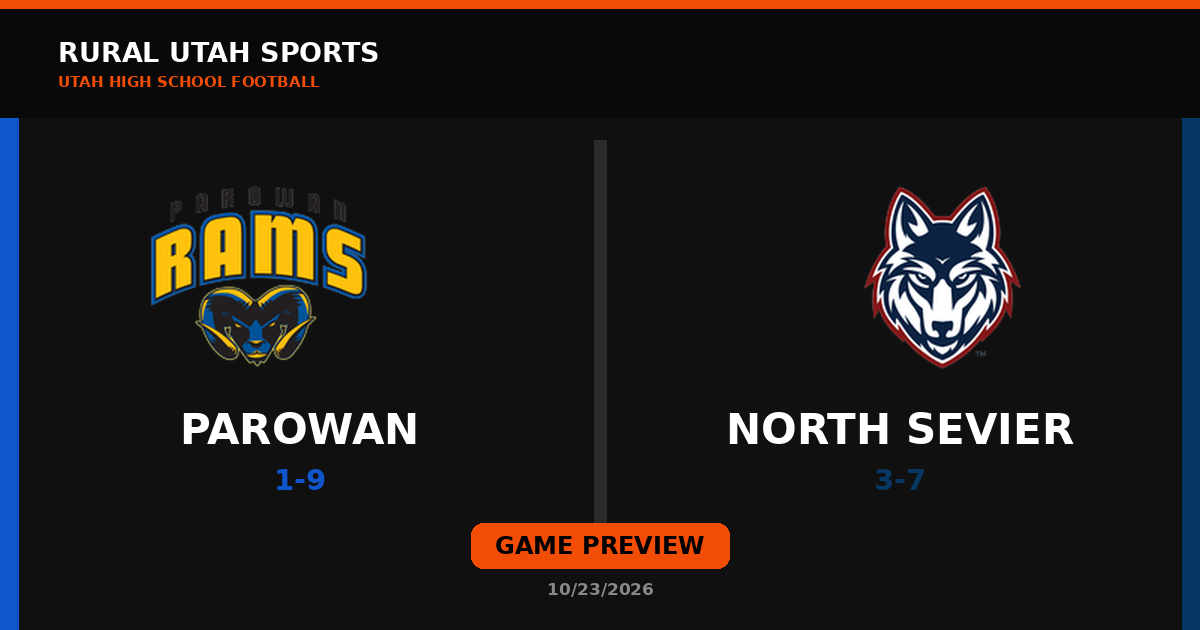
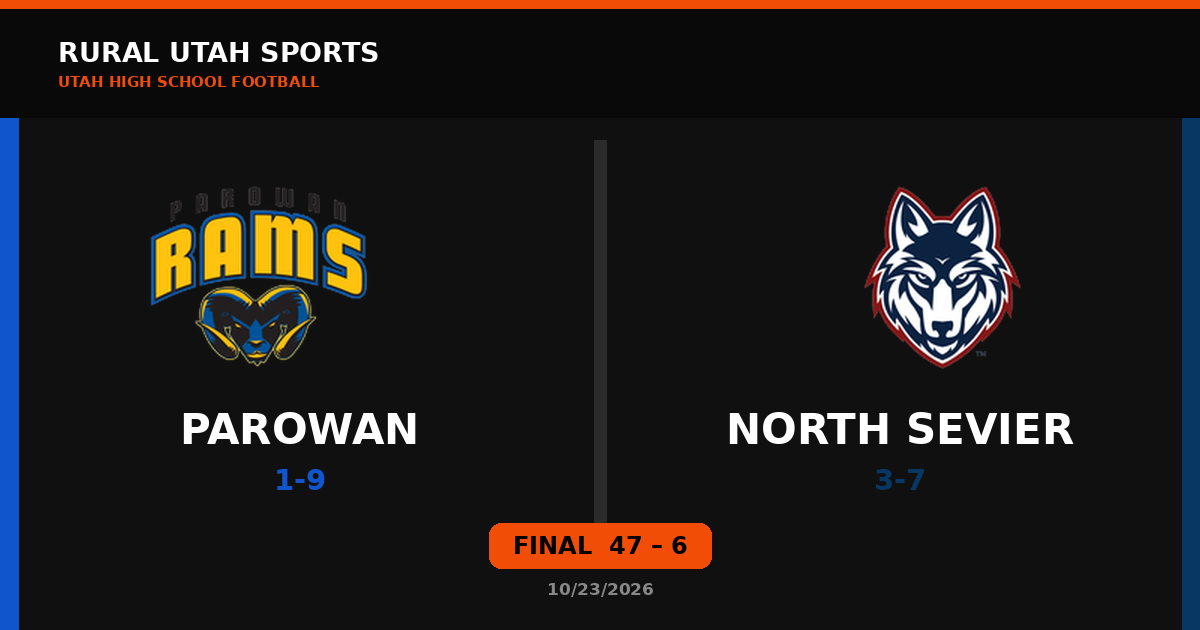
Auto-build social share previews

Changed region(s): [[0.37, 0.8143, 0.6167, 0.9048]]

diff --git a/share/game/10-23-2026-panguitch-at-uma-hillfield/index.html b/share/game/10-23-2026-panguitch-at-uma-hillfield/index.html
@@ -1,5 +1,5 @@
 <!doctype html><html lang="en"><head><meta charset="utf-8"><meta name="viewport" content="width=device-width,initial-scale=1">
-<title>PANGUITCH at UMA-HILLFIELD | Rural Utah Sports</title><meta name="description" content="2026 matchup preview • 10/23/2026. Scores, team records, rankings, ELO and game information."><meta name="robots" content="noindex,follow"><link rel="canonical" href="https://ruralutahsports.github.io/rural-utah-sports/game.html?date=10%2F23%2F2026&amp;away=PANGUITCH&amp;home=UMA-HILLFIELD">
-<meta property="og:type" content="website"><meta property="og:site_name" content="Rural Utah Sports"><meta property="og:title" content="PANGUITCH at UMA-HILLFIELD | Rural Utah Sports"><meta property="og:description" content="2026 matchup preview • 10/23/2026. Scores, team records, rankings, ELO and game information."><meta property="og:url" content="https://ruralutahsports.github.io/rural-utah-sports/share/game/10-23-2026-panguitch-at-uma-hillfield/"><meta property="og:image" content="https://ruralutahsports.github.io/rural-utah-sports/share-images/games/10-23-2026-panguitch-at-uma-hillfield.png"><meta property="og:image:width" content="1200"><meta property="og:image:height" content="630">
-<meta name="twitter:card" content="summary_large_image"><meta name="twitter:title" content="PANGUITCH at UMA-HILLFIELD | Rural Utah Sports"><meta name="twitter:description" content="2026 matchup preview • 10/23/2026. Scores, team records, rankings, ELO and game information."><meta name="twitter:image" content="https://ruralutahsports.github.io/rural-utah-sports/share-images/games/10-23-2026-panguitch-at-uma-hillfield.png"><meta http-equiv="refresh" content="0;url=https://ruralutahsports.github.io/rural-utah-sports/game.html?date=10%2F23%2F2026&amp;away=PANGUITCH&amp;home=UMA-HILLFIELD">
+<title>PANGUITCH at UMA-HILLFIELD | Rural Utah Sports</title><meta name="description" content="Final: 43-24 • 10/23/2026. Scores, team records, rankings, ELO and game information."><meta name="robots" content="noindex,follow"><link rel="canonical" href="https://ruralutahsports.github.io/rural-utah-sports/game.html?date=10%2F23%2F2026&amp;away=PANGUITCH&amp;home=UMA-HILLFIELD">
+<meta property="og:type" content="website"><meta property="og:site_name" content="Rural Utah Sports"><meta property="og:title" content="PANGUITCH at UMA-HILLFIELD | Rural Utah Sports"><meta property="og:description" content="Final: 43-24 • 10/23/2026. Scores, team records, rankings, ELO and game information."><meta property="og:url" content="https://ruralutahsports.github.io/rural-utah-sports/share/game/10-23-2026-panguitch-at-uma-hillfield/"><meta property="og:image" content="https://ruralutahsports.github.io/rural-utah-sports/share-images/games/10-23-2026-panguitch-at-uma-hillfield.png"><meta property="og:image:width" content="1200"><meta property="og:image:height" content="630">
+<meta name="twitter:card" content="summary_large_image"><meta name="twitter:title" content="PANGUITCH at UMA-HILLFIELD | Rural Utah Sports"><meta name="twitter:description" content="Final: 43-24 • 10/23/2026. Scores, team records, rankings, ELO and game information."><meta name="twitter:image" content="https://ruralutahsports.github.io/rural-utah-sports/share-images/games/10-23-2026-panguitch-at-uma-hillfield.png"><meta http-equiv="refresh" content="0;url=https://ruralutahsports.github.io/rural-utah-sports/game.html?date=10%2F23%2F2026&amp;away=PANGUITCH&amp;home=UMA-HILLFIELD">
 <style>body{margin:0;background:#111;color:#fff;font:16px Arial,sans-serif;display:grid;place-items:center;min-height:100vh}a{color:#F14D07;font-weight:800}</style></head><body><p>Opening <a href="https://ruralutahsports.github.io/rural-utah-sports/game.html?date=10%2F23%2F2026&amp;away=PANGUITCH&amp;home=UMA-HILLFIELD">PANGUITCH at UMA-HILLFIELD | Rural Utah Sports</a>…</p><script>location.replace("https://ruralutahsports.github.io/rural-utah-sports/game.html?date=10%2F23%2F2026&away=PANGUITCH&home=UMA-HILLFIELD");</script></body></html>

diff --git a/share/game/10-23-2026-ben-lomond-at-grantsville/index.html b/share/game/10-23-2026-ben-lomond-at-grantsville/index.html
@@ -1,5 +1,5 @@
 <!doctype html><html lang="en"><head><meta charset="utf-8"><meta name="viewport" content="width=device-width,initial-scale=1">
-<title>BEN LOMOND at GRANTSVILLE | Rural Utah Sports</title><meta name="description" content="2026 matchup preview • 10/23/2026. Scores, team records, rankings, ELO and game information."><meta name="robots" content="noindex,follow"><link rel="canonical" href="https://ruralutahsports.github.io/rural-utah-sports/game.html?date=10%2F23%2F2026&amp;away=BEN+LOMOND&amp;home=GRANTSVILLE">
-<meta property="og:type" content="website"><meta property="og:site_name" content="Rural Utah Sports"><meta property="og:title" content="BEN LOMOND at GRANTSVILLE | Rural Utah Sports"><meta property="og:description" content="2026 matchup preview • 10/23/2026. Scores, team records, rankings, ELO and game information."><meta property="og:url" content="https://ruralutahsports.github.io/rural-utah-sports/share/game/10-23-2026-ben-lomond-at-grantsville/"><meta property="og:image" content="https://ruralutahsports.github.io/rural-utah-sports/share-images/games/10-23-2026-ben-lomond-at-grantsville.png"><meta property="og:image:width" content="1200"><meta property="og:image:height" content="630">
-<meta name="twitter:card" content="summary_large_image"><meta name="twitter:title" content="BEN LOMOND at GRANTSVILLE | Rural Utah Sports"><meta name="twitter:description" content="2026 matchup preview • 10/23/2026. Scores, team records, rankings, ELO and game information."><meta name="twitter:image" content="https://ruralutahsports.github.io/rural-utah-sports/share-images/games/10-23-2026-ben-lomond-at-grantsville.png"><meta http-equiv="refresh" content="0;url=https://ruralutahsports.github.io/rural-utah-sports/game.html?date=10%2F23%2F2026&amp;away=BEN+LOMOND&amp;home=GRANTSVILLE">
+<title>BEN LOMOND at GRANTSVILLE | Rural Utah Sports</title><meta name="description" content="Final: 6-55 • 10/23/2026. Scores, team records, rankings, ELO and game information."><meta name="robots" content="noindex,follow"><link rel="canonical" href="https://ruralutahsports.github.io/rural-utah-sports/game.html?date=10%2F23%2F2026&amp;away=BEN+LOMOND&amp;home=GRANTSVILLE">
+<meta property="og:type" content="website"><meta property="og:site_name" content="Rural Utah Sports"><meta property="og:title" content="BEN LOMOND at GRANTSVILLE | Rural Utah Sports"><meta property="og:description" content="Final: 6-55 • 10/23/2026. Scores, team records, rankings, ELO and game information."><meta property="og:url" content="https://ruralutahsports.github.io/rural-utah-sports/share/game/10-23-2026-ben-lomond-at-grantsville/"><meta property="og:image" content="https://ruralutahsports.github.io/rural-utah-sports/share-images/games/10-23-2026-ben-lomond-at-grantsville.png"><meta property="og:image:width" content="1200"><meta property="og:image:height" content="630">
+<meta name="twitter:card" content="summary_large_image"><meta name="twitter:title" content="BEN LOMOND at GRANTSVILLE | Rural Utah Sports"><meta name="twitter:description" content="Final: 6-55 • 10/23/2026. Scores, team records, rankings, ELO and game information."><meta name="twitter:image" content="https://ruralutahsports.github.io/rural-utah-sports/share-images/games/10-23-2026-ben-lomond-at-grantsville.png"><meta http-equiv="refresh" content="0;url=https://ruralutahsports.github.io/rural-utah-sports/game.html?date=10%2F23%2F2026&amp;away=BEN+LOMOND&amp;home=GRANTSVILLE">
 <style>body{margin:0;background:#111;color:#fff;font:16px Arial,sans-serif;display:grid;place-items:center;min-height:100vh}a{color:#F14D07;font-weight:800}</style></head><body><p>Opening <a href="https://ruralutahsports.github.io/rural-utah-sports/game.html?date=10%2F23%2F2026&amp;away=BEN+LOMOND&amp;home=GRANTSVILLE">BEN LOMOND at GRANTSVILLE | Rural Utah Sports</a>…</p><script>location.replace("https://ruralutahsports.github.io/rural-utah-sports/game.html?date=10%2F23%2F2026&away=BEN+LOMOND&home=GRANTSVILLE");</script></body></html>

diff --git a/share/game/10-23-2026-monument-val-at-uma-lehi/index.html b/share/game/10-23-2026-monument-val-at-uma-lehi/index.html
@@ -1,5 +1,5 @@
 <!doctype html><html lang="en"><head><meta charset="utf-8"><meta name="viewport" content="width=device-width,initial-scale=1">
-<title>MONUMENT VAL at UMA-LEHI | Rural Utah Sports</title><meta name="description" content="2026 matchup preview • 10/23/2026. Scores, team records, rankings, ELO and game information."><meta name="robots" content="noindex,follow"><link rel="canonical" href="https://ruralutahsports.github.io/rural-utah-sports/game.html?date=10%2F23%2F2026&amp;away=MONUMENT+VAL&amp;home=UMA-LEHI">
-<meta property="og:type" content="website"><meta property="og:site_name" content="Rural Utah Sports"><meta property="og:title" content="MONUMENT VAL at UMA-LEHI | Rural Utah Sports"><meta property="og:description" content="2026 matchup preview • 10/23/2026. Scores, team records, rankings, ELO and game information."><meta property="og:url" content="https://ruralutahsports.github.io/rural-utah-sports/share/game/10-23-2026-monument-val-at-uma-lehi/"><meta property="og:image" content="https://ruralutahsports.github.io/rural-utah-sports/share-images/games/10-23-2026-monument-val-at-uma-lehi.png"><meta property="og:image:width" content="1200"><meta property="og:image:height" content="630">
-<meta name="twitter:card" content="summary_large_image"><meta name="twitter:title" content="MONUMENT VAL at UMA-LEHI | Rural Utah Sports"><meta name="twitter:description" content="2026 matchup preview • 10/23/2026. Scores, team records, rankings, ELO and game information."><meta name="twitter:image" content="https://ruralutahsports.github.io/rural-utah-sports/share-images/games/10-23-2026-monument-val-at-uma-lehi.png"><meta http-equiv="refresh" content="0;url=https://ruralutahsports.github.io/rural-utah-sports/game.html?date=10%2F23%2F2026&amp;away=MONUMENT+VAL&amp;home=UMA-LEHI">
+<title>MONUMENT VAL at UMA-LEHI | Rural Utah Sports</title><meta name="description" content="Final: 16-45 • 10/23/2026. Scores, team records, rankings, ELO and game information."><meta name="robots" content="noindex,follow"><link rel="canonical" href="https://ruralutahsports.github.io/rural-utah-sports/game.html?date=10%2F23%2F2026&amp;away=MONUMENT+VAL&amp;home=UMA-LEHI">
+<meta property="og:type" content="website"><meta property="og:site_name" content="Rural Utah Sports"><meta property="og:title" content="MONUMENT VAL at UMA-LEHI | Rural Utah Sports"><meta property="og:description" content="Final: 16-45 • 10/23/2026. Scores, team records, rankings, ELO and game information."><meta property="og:url" content="https://ruralutahsports.github.io/rural-utah-sports/share/game/10-23-2026-monument-val-at-uma-lehi/"><meta property="og:image" content="https://ruralutahsports.github.io/rural-utah-sports/share-images/games/10-23-2026-monument-val-at-uma-lehi.png"><meta property="og:image:width" content="1200"><meta property="og:image:height" content="630">
+<meta name="twitter:card" content="summary_large_image"><meta name="twitter:title" content="MONUMENT VAL at UMA-LEHI | Rural Utah Sports"><meta name="twitter:description" content="Final: 16-45 • 10/23/2026. Scores, team records, rankings, ELO and game information."><meta name="twitter:image" content="https://ruralutahsports.github.io/rural-utah-sports/share-images/games/10-23-2026-monument-val-at-uma-lehi.png"><meta http-equiv="refresh" content="0;url=https://ruralutahsports.github.io/rural-utah-sports/game.html?date=10%2F23%2F2026&amp;away=MONUMENT+VAL&amp;home=UMA-LEHI">
 <style>body{margin:0;background:#111;color:#fff;font:16px Arial,sans-serif;display:grid;place-items:center;min-height:100vh}a{color:#F14D07;font-weight:800}</style></head><body><p>Opening <a href="https://ruralutahsports.github.io/rural-utah-sports/game.html?date=10%2F23%2F2026&amp;away=MONUMENT+VAL&amp;home=UMA-LEHI">MONUMENT VAL at UMA-LEHI | Rural Utah Sports</a>…</p><script>location.replace("https://ruralutahsports.github.io/rural-utah-sports/game.html?date=10%2F23%2F2026&away=MONUMENT+VAL&home=UMA-LEHI");</script></body></html>

diff --git a/share/game/10-23-2026-parowan-at-north-sevier/index.html b/share/game/10-23-2026-parowan-at-north-sevier/index.html
@@ -1,5 +1,5 @@
 <!doctype html><html lang="en"><head><meta charset="utf-8"><meta name="viewport" content="width=device-width,initial-scale=1">
-<title>PAROWAN at NORTH SEVIER | Rural Utah Sports</title><meta name="description" content="2026 matchup preview • 10/23/2026. Scores, team records, rankings, ELO and game information."><meta name="robots" content="noindex,follow"><link rel="canonical" href="https://ruralutahsports.github.io/rural-utah-sports/game.html?date=10%2F23%2F2026&amp;away=PAROWAN&amp;home=NORTH+SEVIER">
-<meta property="og:type" content="website"><meta property="og:site_name" content="Rural Utah Sports"><meta property="og:title" content="PAROWAN at NORTH SEVIER | Rural Utah Sports"><meta property="og:description" content="2026 matchup preview • 10/23/2026. Scores, team records, rankings, ELO and game information."><meta property="og:url" content="https://ruralutahsports.github.io/rural-utah-sports/share/game/10-23-2026-parowan-at-north-sevier/"><meta property="og:image" content="https://ruralutahsports.github.io/rural-utah-sports/share-images/games/10-23-2026-parowan-at-north-sevier.png"><meta property="og:image:width" content="1200"><meta property="og:image:height" content="630">
-<meta name="twitter:card" content="summary_large_image"><meta name="twitter:title" content="PAROWAN at NORTH SEVIER | Rural Utah Sports"><meta name="twitter:description" content="2026 matchup preview • 10/23/2026. Scores, team records, rankings, ELO and game information."><meta name="twitter:image" content="https://ruralutahsports.github.io/rural-utah-sports/share-images/games/10-23-2026-parowan-at-north-sevier.png"><meta http-equiv="refresh" content="0;url=https://ruralutahsports.github.io/rural-utah-sports/game.html?date=10%2F23%2F2026&amp;away=PAROWAN&amp;home=NORTH+SEVIER">
+<title>PAROWAN at NORTH SEVIER | Rural Utah Sports</title><meta name="description" content="Final: 47-6 • 10/23/2026. Scores, team records, rankings, ELO and game information."><meta name="robots" content="noindex,follow"><link rel="canonical" href="https://ruralutahsports.github.io/rural-utah-sports/game.html?date=10%2F23%2F2026&amp;away=PAROWAN&amp;home=NORTH+SEVIER">
+<meta property="og:type" content="website"><meta property="og:site_name" content="Rural Utah Sports"><meta property="og:title" content="PAROWAN at NORTH SEVIER | Rural Utah Sports"><meta property="og:description" content="Final: 47-6 • 10/23/2026. Scores, team records, rankings, ELO and game information."><meta property="og:url" content="https://ruralutahsports.github.io/rural-utah-sports/share/game/10-23-2026-parowan-at-north-sevier/"><meta property="og:image" content="https://ruralutahsports.github.io/rural-utah-sports/share-images/games/10-23-2026-parowan-at-north-sevier.png"><meta property="og:image:width" content="1200"><meta property="og:image:height" content="630">
+<meta name="twitter:card" content="summary_large_image"><meta name="twitter:title" content="PAROWAN at NORTH SEVIER | Rural Utah Sports"><meta name="twitter:description" content="Final: 47-6 • 10/23/2026. Scores, team records, rankings, ELO and game information."><meta name="twitter:image" content="https://ruralutahsports.github.io/rural-utah-sports/share-images/games/10-23-2026-parowan-at-north-sevier.png"><meta http-equiv="refresh" content="0;url=https://ruralutahsports.github.io/rural-utah-sports/game.html?date=10%2F23%2F2026&amp;away=PAROWAN&amp;home=NORTH+SEVIER">
 <style>body{margin:0;background:#111;color:#fff;font:16px Arial,sans-serif;display:grid;place-items:center;min-height:100vh}a{color:#F14D07;font-weight:800}</style></head><body><p>Opening <a href="https://ruralutahsports.github.io/rural-utah-sports/game.html?date=10%2F23%2F2026&amp;away=PAROWAN&amp;home=NORTH+SEVIER">PAROWAN at NORTH SEVIER | Rural Utah Sports</a>…</p><script>location.replace("https://ruralutahsports.github.io/rural-utah-sports/game.html?date=10%2F23%2F2026&away=PAROWAN&home=NORTH+SEVIER");</script></body></html>

diff --git a/share/game/10-23-2026-manti-at-canyon-view/index.html b/share/game/10-23-2026-manti-at-canyon-view/index.html
@@ -1,5 +1,5 @@
 <!doctype html><html lang="en"><head><meta charset="utf-8"><meta name="viewport" content="width=device-width,initial-scale=1">
-<title>MANTI at CANYON VIEW | Rural Utah Sports</title><meta name="description" content="2026 matchup preview • 10/23/2026. Scores, team records, rankings, ELO and game information."><meta name="robots" content="noindex,follow"><link rel="canonical" href="https://ruralutahsports.github.io/rural-utah-sports/game.html?date=10%2F23%2F2026&amp;away=MANTI&amp;home=CANYON+VIEW">
-<meta property="og:type" content="website"><meta property="og:site_name" content="Rural Utah Sports"><meta property="og:title" content="MANTI at CANYON VIEW | Rural Utah Sports"><meta property="og:description" content="2026 matchup preview • 10/23/2026. Scores, team records, rankings, ELO and game information."><meta property="og:url" content="https://ruralutahsports.github.io/rural-utah-sports/share/game/10-23-2026-manti-at-canyon-view/"><meta property="og:image" content="https://ruralutahsports.github.io/rural-utah-sports/share-images/games/10-23-2026-manti-at-canyon-view.png"><meta property="og:image:width" content="1200"><meta property="og:image:height" content="630">
-<meta name="twitter:card" content="summary_large_image"><meta name="twitter:title" content="MANTI at CANYON VIEW | Rural Utah Sports"><meta name="twitter:description" content="2026 matchup preview • 10/23/2026. Scores, team records, rankings, ELO and game information."><meta name="twitter:image" content="https://ruralutahsports.github.io/rural-utah-sports/share-images/games/10-23-2026-manti-at-canyon-view.png"><meta http-equiv="refresh" content="0;url=https://ruralutahsports.github.io/rural-utah-sports/game.html?date=10%2F23%2F2026&amp;away=MANTI&amp;home=CANYON+VIEW">
+<title>MANTI at CANYON VIEW | Rural Utah Sports</title><meta name="description" content="Final: 35-17 • 10/23/2026. Scores, team records, rankings, ELO and game information."><meta name="robots" content="noindex,follow"><link rel="canonical" href="https://ruralutahsports.github.io/rural-utah-sports/game.html?date=10%2F23%2F2026&amp;away=MANTI&amp;home=CANYON+VIEW">
+<meta property="og:type" content="website"><meta property="og:site_name" content="Rural Utah Sports"><meta property="og:title" content="MANTI at CANYON VIEW | Rural Utah Sports"><meta property="og:description" content="Final: 35-17 • 10/23/2026. Scores, team records, rankings, ELO and game information."><meta property="og:url" content="https://ruralutahsports.github.io/rural-utah-sports/share/game/10-23-2026-manti-at-canyon-view/"><meta property="og:image" content="https://ruralutahsports.github.io/rural-utah-sports/share-images/games/10-23-2026-manti-at-canyon-view.png"><meta property="og:image:width" content="1200"><meta property="og:image:height" content="630">
+<meta name="twitter:card" content="summary_large_image"><meta name="twitter:title" content="MANTI at CANYON VIEW | Rural Utah Sports"><meta name="twitter:description" content="Final: 35-17 • 10/23/2026. Scores, team records, rankings, ELO and game information."><meta name="twitter:image" content="https://ruralutahsports.github.io/rural-utah-sports/share-images/games/10-23-2026-manti-at-canyon-view.png"><meta http-equiv="refresh" content="0;url=https://ruralutahsports.github.io/rural-utah-sports/game.html?date=10%2F23%2F2026&amp;away=MANTI&amp;home=CANYON+VIEW">
 <style>body{margin:0;background:#111;color:#fff;font:16px Arial,sans-serif;display:grid;place-items:center;min-height:100vh}a{color:#F14D07;font-weight:800}</style></head><body><p>Opening <a href="https://ruralutahsports.github.io/rural-utah-sports/game.html?date=10%2F23%2F2026&amp;away=MANTI&amp;home=CANYON+VIEW">MANTI at CANYON VIEW | Rural Utah Sports</a>…</p><script>location.replace("https://ruralutahsports.github.io/rural-utah-sports/game.html?date=10%2F23%2F2026&away=MANTI&home=CANYON+VIEW");</script></body></html>

diff --git a/share/game/10-23-2026-carbon-at-richfield/index.html b/share/game/10-23-2026-carbon-at-richfield/index.html
@@ -1,5 +1,5 @@
 <!doctype html><html lang="en"><head><meta charset="utf-8"><meta name="viewport" content="width=device-width,initial-scale=1">
-<title>CARBON at RICHFIELD | Rural Utah Sports</title><meta name="description" content="2026 matchup preview • 10/23/2026. Scores, team records, rankings, ELO and game information."><meta name="robots" content="noindex,follow"><link rel="canonical" href="https://ruralutahsports.github.io/rural-utah-sports/game.html?date=10%2F23%2F2026&amp;away=CARBON&amp;home=RICHFIELD">
-<meta property="og:type" content="website"><meta property="og:site_name" content="Rural Utah Sports"><meta property="og:title" content="CARBON at RICHFIELD | Rural Utah Sports"><meta property="og:description" content="2026 matchup preview • 10/23/2026. Scores, team records, rankings, ELO and game information."><meta property="og:url" content="https://ruralutahsports.github.io/rural-utah-sports/share/game/10-23-2026-carbon-at-richfield/"><meta property="og:image" content="https://ruralutahsports.github.io/rural-utah-sports/share-images/games/10-23-2026-carbon-at-richfield.png"><meta property="og:image:width" content="1200"><meta property="og:image:height" content="630">
-<meta name="twitter:card" content="summary_large_image"><meta name="twitter:title" content="CARBON at RICHFIELD | Rural Utah Sports"><meta name="twitter:description" content="2026 matchup preview • 10/23/2026. Scores, team records, rankings, ELO and game information."><meta name="twitter:image" content="https://ruralutahsports.github.io/rural-utah-sports/share-images/games/10-23-2026-carbon-at-richfield.png"><meta http-equiv="refresh" content="0;url=https://ruralutahsports.github.io/rural-utah-sports/game.html?date=10%2F23%2F2026&amp;away=CARBON&amp;home=RICHFIELD">
+<title>CARBON at RICHFIELD | Rural Utah Sports</title><meta name="description" content="Final: 9-35 • 10/23/2026. Scores, team records, rankings, ELO and game information."><meta name="robots" content="noindex,follow"><link rel="canonical" href="https://ruralutahsports.github.io/rural-utah-sports/game.html?date=10%2F23%2F2026&amp;away=CARBON&amp;home=RICHFIELD">
+<meta property="og:type" content="website"><meta property="og:site_name" content="Rural Utah Sports"><meta property="og:title" content="CARBON at RICHFIELD | Rural Utah Sports"><meta property="og:description" content="Final: 9-35 • 10/23/2026. Scores, team records, rankings, ELO and game information."><meta property="og:url" content="https://ruralutahsports.github.io/rural-utah-sports/share/game/10-23-2026-carbon-at-richfield/"><meta property="og:image" content="https://ruralutahsports.github.io/rural-utah-sports/share-images/games/10-23-2026-carbon-at-richfield.png"><meta property="og:image:width" content="1200"><meta property="og:image:height" content="630">
+<meta name="twitter:card" content="summary_large_image"><meta name="twitter:title" content="CARBON at RICHFIELD | Rural Utah Sports"><meta name="twitter:description" content="Final: 9-35 • 10/23/2026. Scores, team records, rankings, ELO and game information."><meta name="twitter:image" content="https://ruralutahsports.github.io/rural-utah-sports/share-images/games/10-23-2026-carbon-at-richfield.png"><meta http-equiv="refresh" content="0;url=https://ruralutahsports.github.io/rural-utah-sports/game.html?date=10%2F23%2F2026&amp;away=CARBON&amp;home=RICHFIELD">
 <style>body{margin:0;background:#111;color:#fff;font:16px Arial,sans-serif;display:grid;place-items:center;min-height:100vh}a{color:#F14D07;font-weight:800}</style></head><body><p>Opening <a href="https://ruralutahsports.github.io/rural-utah-sports/game.html?date=10%2F23%2F2026&amp;away=CARBON&amp;home=RICHFIELD">CARBON at RICHFIELD | Rural Utah Sports</a>…</p><script>location.replace("https://ruralutahsports.github.io/rural-utah-sports/game.html?date=10%2F23%2F2026&away=CARBON&home=RICHFIELD");</script></body></html>
